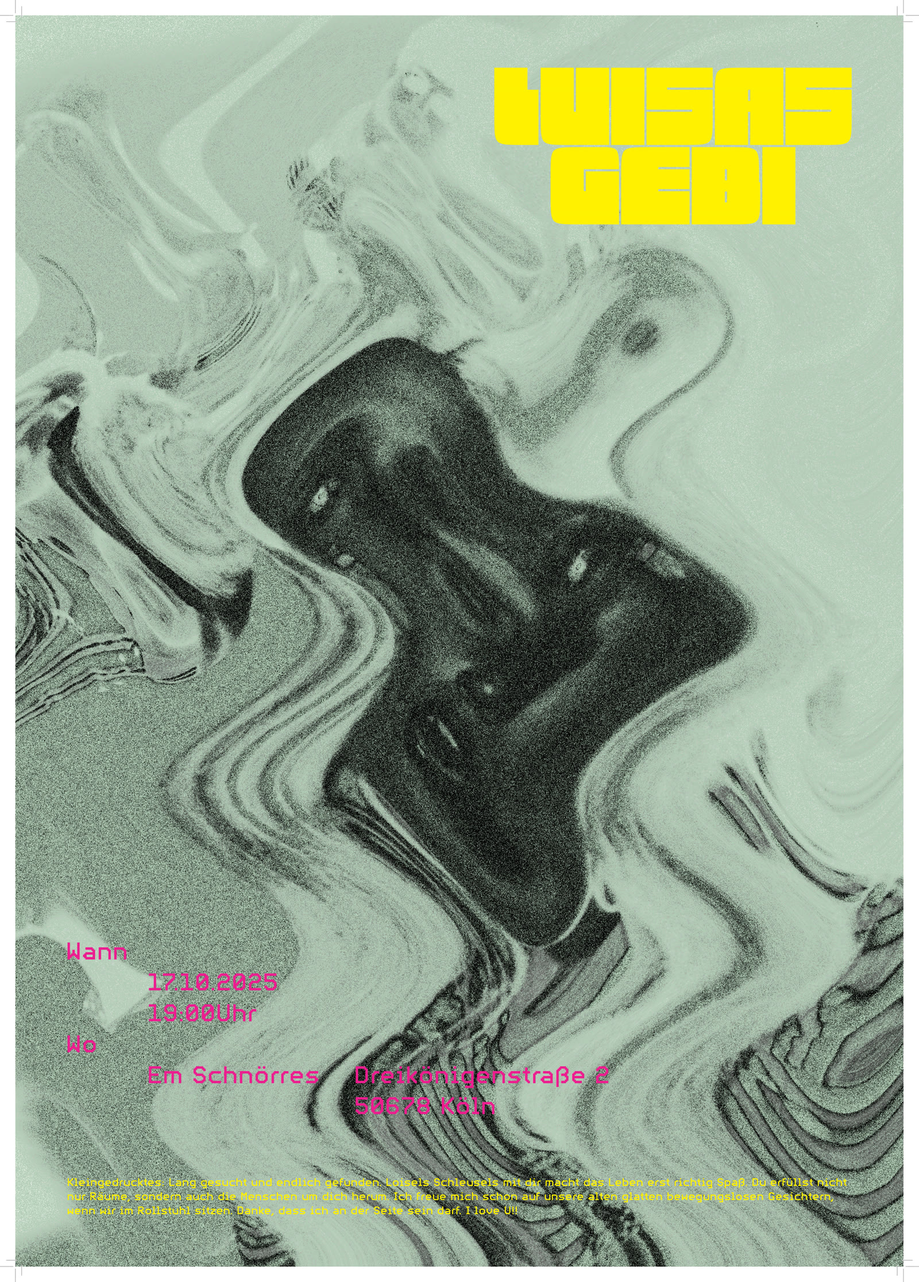
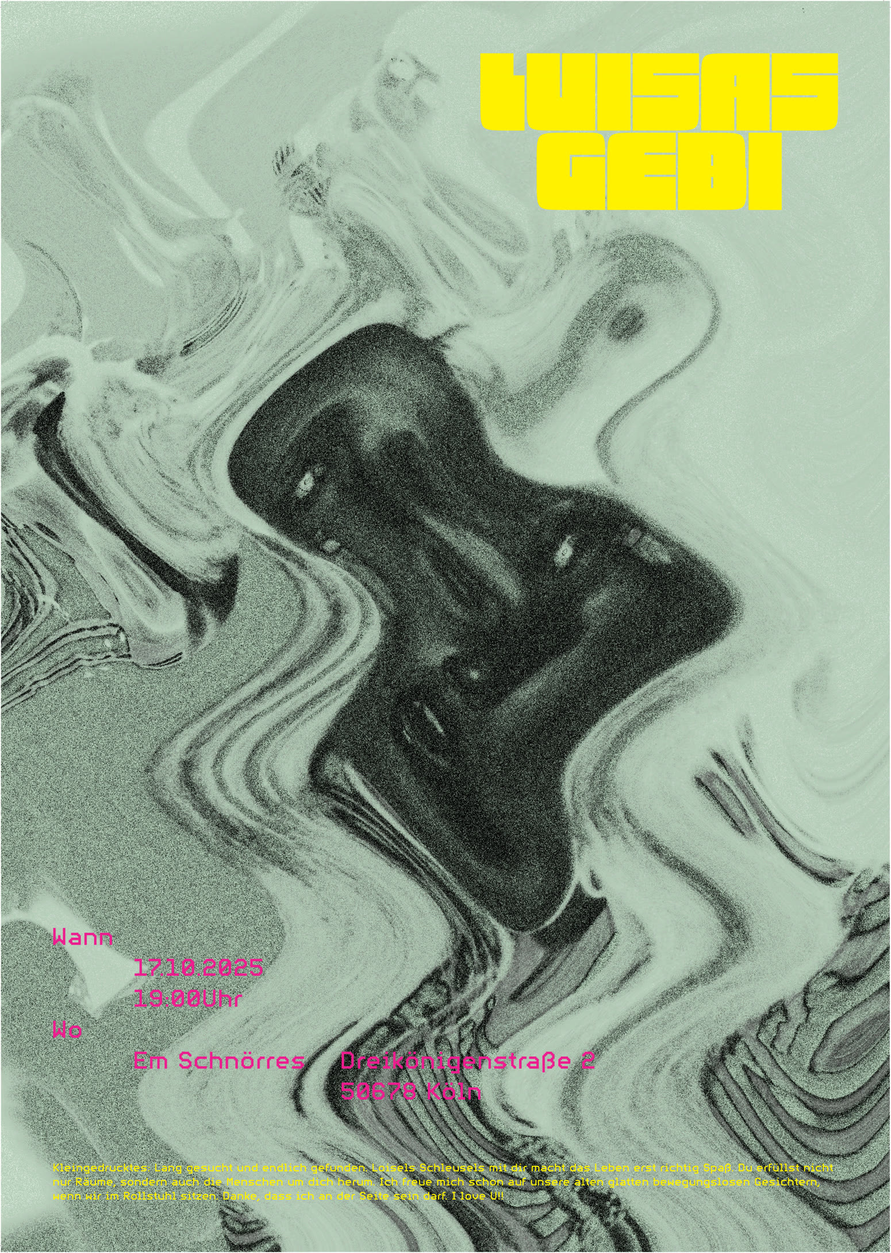
Druck-Passermarken (Zuschnitt) von Regina- und Luisa-Plakat abschneiden

diff --git a/lib/projects.ts b/lib/projects.ts
@@ -138,9 +138,9 @@ export const projects: Project[] = [
     heroPlaceholder: "Hero-Bild des Projekts hier ablegen",
     gallery: [
       { slotId: "detail-1", ratio: "4/5", src: "/projects/plakatgestaltung/poster-museum.jpg", caption: "Plakat 1 — Bildunterschrift eintragen", placeholder: "Foto (Hochformat) hier ablegen" },
-      { slotId: "detail-2", ratio: "1600/2253", src: "/projects/plakatgestaltung/poster-regina.jpg", caption: "Plakat 2 — Bildunterschrift eintragen", placeholder: "Foto (Hochformat) hier ablegen" },
+      { slotId: "detail-2", ratio: "1550/2203", src: "/projects/plakatgestaltung/poster-regina.jpg", caption: "Plakat 2 — Bildunterschrift eintragen", placeholder: "Foto (Hochformat) hier ablegen" },
       { slotId: "detail-3", ratio: "4/5", src: "/projects/plakatgestaltung/poster-hohenzollernring.jpg", caption: "Plakat 3 — Bildunterschrift eintragen", placeholder: "Foto (Hochformat) hier ablegen" },
-      { slotId: "detail-4", ratio: "1600/2231", src: "/projects/plakatgestaltung/poster-luisa.jpg", caption: "Plakat 4 — Bildunterschrift eintragen", placeholder: "Foto (Hochformat) hier ablegen" },
+      { slotId: "detail-4", ratio: "1550/2181", src: "/projects/plakatgestaltung/poster-luisa.jpg", caption: "Plakat 4 — Bildunterschrift eintragen", placeholder: "Foto (Hochformat) hier ablegen" },
     ],
     closingSlotId: "detail-5",
     closingCaption: "Bildunterschrift eintragen",
